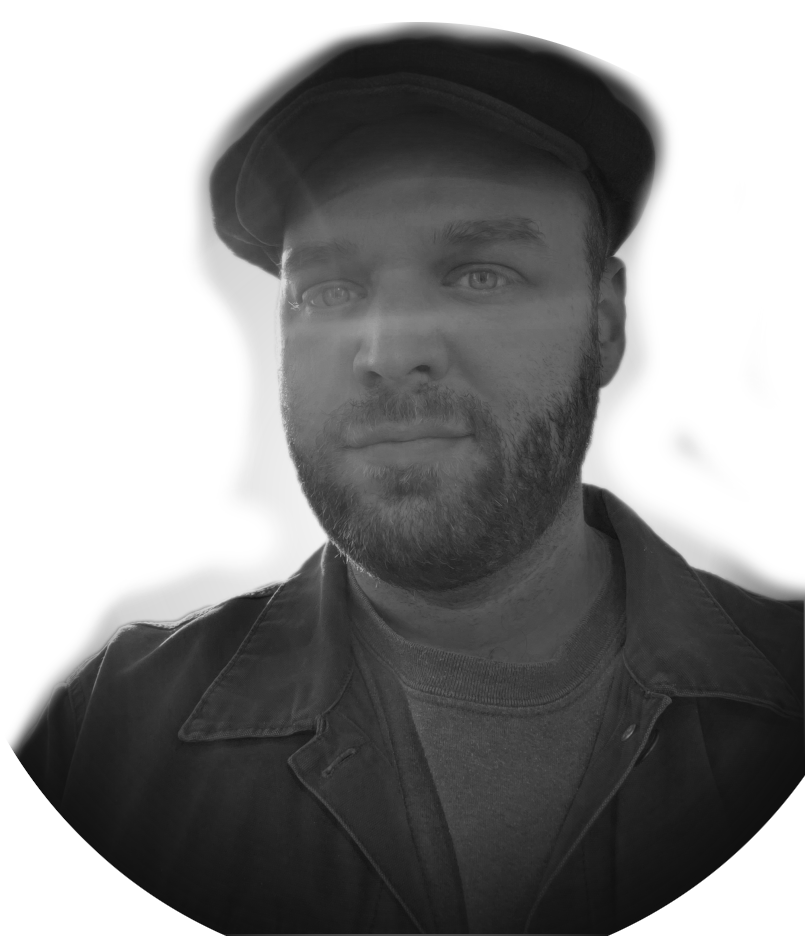
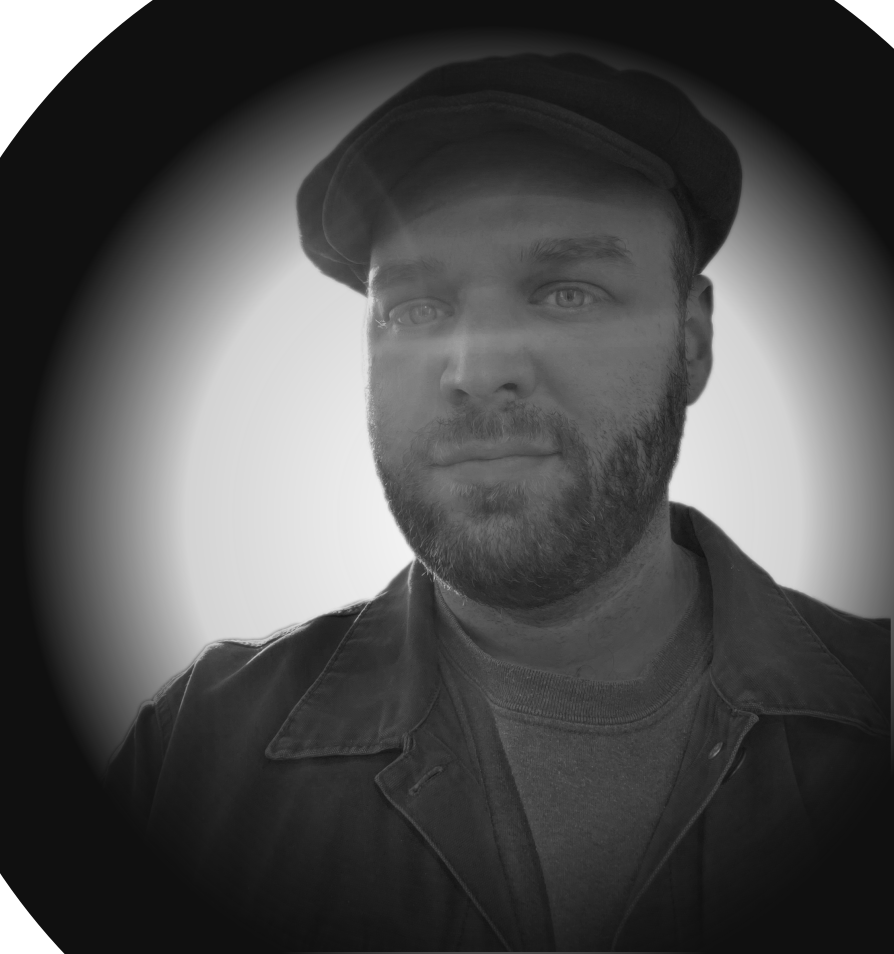
Finish Skeleton of landing page

diff --git a/src/components/Skills/index.jsx b/src/components/Skills/index.jsx
@@ -1,22 +1,70 @@
 import React from 'react'
 import styled from 'styled-components';
+import SkillBlock from '../SkillBlock';
 
 const StyledDiv = styled.div`
-  background: paleturquoise;
+  width: 95%;
+  margin: 0 auto;
+  h2 {
+    font-size: 1.1rem;
+    font-weight: bold;
+  }
+  ul {
+    list-style-type: none;
+    padding: 0;
+    display: flex;
+    justify-content: space-around;
+  }
 
 `;
 
 export default function Skills() {
   return(
     <StyledDiv>
-      <h2>Skills</h2>
+      <h2>Top Skills</h2>
       <ul>
-        <li>
-          Jamstack
-        </li>
-        <li>
-          React
-        </li>
+          <SkillBlock
+            skill="HTML / CSS / Javascript"
+            copy="While I love diving into new technology I value the importance of the fundamentals of front end development"
+          />
+          <SkillBlock
+            skill="Problem Solving"
+            copy="I list the technology I've used in the past below, but ultimately it's the ability to see a problem and find out how to resolve it that is the most important skill I possess."
+          />
+          <SkillBlock
+            skill="JAMstack"
+            copy="It's always enjoyable to work with a powerful monolyth like Django or Rails, but there's something about the simplicity and speed of JAMstack that's captured my attention. My favorite is Gatsby, but I like the flexibilty NextJS has even when not using a 100% JAMstack approach."
+          />
+      </ul>
+      <h2>{"<more skills>"}</h2>
+      <ul>
+        <li>NodeJS</li>
+        <li>Python</li>
+        <li>Django</li>
+        <li>Rest API</li>
+        <li>GraphQL</li>
+        <li>PostgreSQL</li>
+        <li>Express</li>
+        <li>React</li>
+        <li>Next</li>
+        <li>Gatsby</li>
+        <li>SEO</li>
+        <li>AWS</li>
+        <li>SASS</li>
+        <li>MongoDB</li>
+        <li>MySQL</li>
+        <li>Ruby / Rails / Jekyll</li>
+        <li>PHP</li>   
+      </ul>
+      <h2>Skills outside of Software Development</h2>
+      <ul>
+        <li>Conflict Resolution</li>
+        <li>Management</li>
+        <li>Employee Training</li>
+        <li>Customer Service</li>
+        <li>Design Principles</li>
+        <li>Audio Editing</li>
+        <li></li>
       </ul>
     </StyledDiv>
   )

diff --git a/src/components/Intro/index.jsx b/src/components/Intro/index.jsx
@@ -6,12 +6,15 @@ const StyledDiv = styled.div`
   display: flex;
   flex-direction: row;
   justify-content: space-between;
+  margin-bottom: 200px;
 
   .introText {
+    position: relative;
     width: 45%;
     max-width: 800px;
     margin-top: 100px;
     margin-left: 5%;
+    z-index: 2;
     p:last-of-type {
       margin-bottom: 50px;
     }
@@ -24,10 +27,17 @@ const StyledDiv = styled.div`
   }
 
   .doug {
-    border-bottom: 24px solid var(--highlight); 
+    height: 100%;
+    background: linear-gradient(180deg, #000 50%, var(--highlight) 50%);
+    padding: 0 7px;
+    margin: 0 -7px;
   }
 
   .portrait {
+    position: absolute;
+    right: 0;
+    top: 0;
+    z-index: 0;
     width: 60%;
   }
 
@@ -40,7 +50,7 @@ const StyledDiv = styled.div`
     color: #a9a9a9;
     &:hover {
       color: var(--highlight);
-      background: #1f1f1f;
+      background: var(--gray);
     }
   }
 

diff --git a/src/components/Layout/index.jsx b/src/components/Layout/index.jsx
@@ -9,6 +9,8 @@ import "@fontsource/poppins/700.css"
 const GlobalStyle = createGlobalStyle`
 	:root {
 		--highlight: #4DC0D3;
+		--background: #101010;
+		--gray: #2C2C2C;
 	}
   body {
     margin: 0;
@@ -19,7 +21,7 @@ const StyledDiv = styled.div`
 	display: flex;
 	flex-direction: column;
   min-height: 100vh;
-	background: black;
+	background: var(--background);
 	color: white;
   display: flex;
   padding: 0;
@@ -30,6 +32,7 @@ const StyledDiv = styled.div`
 		display: flex;
 		padding: 0;
 		margin: 0;
+		background: var(--background);
 
 		li{
 			display: flex;
@@ -66,6 +69,15 @@ const StyledDiv = styled.div`
 			padding: 0;
 		}
   }
+
+	header {
+		position: fixed;
+		z-index: 5;
+	}
+	main {
+		position: static;
+		z-index: 1;
+	}
 `;
 
 export default function Layout(props) {

diff --git a/src/components/OtherInterests/index.jsx b/src/components/OtherInterests/index.jsx
@@ -1,0 +1,20 @@
+import React from 'react';
+import InterestBlock from '../InterestBlock';
+import styled from 'styled-components';
+
+const StyledDiv = styled.div`
+  h2 {
+    text-align: center;
+  }
+`;
+export default function OtherInterests() {
+  return(
+    <StyledDiv>
+      <h2>Other Interests</h2>
+      <InterestBlock
+        title="Audio Engineering"
+        copy="Before Web Development I spent time as an audio engineer for a commercial production house in Chicago. I still do mastering work for musicians when I have the time. Check out my page explaining that coming soon."
+      />
+    </StyledDiv>
+  )
+}

diff --git a/src/pages/index.jsx b/src/pages/index.jsx
@@ -2,14 +2,16 @@ import * as React from "react"
 import Layout from '../components/Layout';
 import Intro from '../components/Intro';
 import Skills from '../components/Skills';
-
-
+import OtherInterests from '../components/OtherInterests';
+import Projects from '../components/Projects';
 
 const IndexPage = () => {
   return (
     <Layout title="Web Developer">
       <Intro/>
       <Skills/>
+      <OtherInterests/>
+      <Projects/>
     </Layout>
   )
 }

diff --git a/src/components/SkillBlock/index.jsx b/src/components/SkillBlock/index.jsx
@@ -1,0 +1,25 @@
+import React from 'react';
+import styled from 'styled-components';
+
+const StyledDiv = styled.div`
+  width: 30%;
+  z-index: 2;
+  background: var(--highlight); 
+  h3 {
+    text-align: center;
+  }
+  p {
+    padding: 0 1rem;
+  }
+`;
+
+export default function SkillBlock(props) {
+  return(
+    <StyledDiv>
+      <li>
+        <h3>{props.skill}</h3>
+        <p>{props.copy}</p>
+      </li>
+    </StyledDiv>
+  )
+}

diff --git a/src/components/InterestBlock/index.jsx b/src/components/InterestBlock/index.jsx
@@ -1,0 +1,15 @@
+import React from 'react';
+import styled from 'styled-components';
+
+const StyledDiv = styled.div`
+  background: var(--gray);
+`;
+
+export default function InterestBlock(props) {
+  return(
+    <StyledDiv>
+      <h3>{props.title}</h3>
+      <p>{props.copy}</p>
+    </StyledDiv>
+  )
+}

diff --git a/src/components/ProjectBlock/index.jsx b/src/components/ProjectBlock/index.jsx
@@ -1,0 +1,14 @@
+import React from 'react';
+import styled from 'styled-components';
+
+const StyledDiv = styled.div`
+  style
+`;
+
+export default function ProjectBlock() {
+  return(
+    <StyledDiv>
+      
+    </StyledDiv>
+  )
+}

diff --git a/src/components/Projects/index.jsx b/src/components/Projects/index.jsx
@@ -1,0 +1,14 @@
+import React from 'react';
+import styled from 'styled-components';
+
+const StyledDiv = styled.div`
+  style
+`; 
+
+export default function Projects() {
+  return(
+    <StyledDiv>
+      
+    </StyledDiv>
+  )
+}
